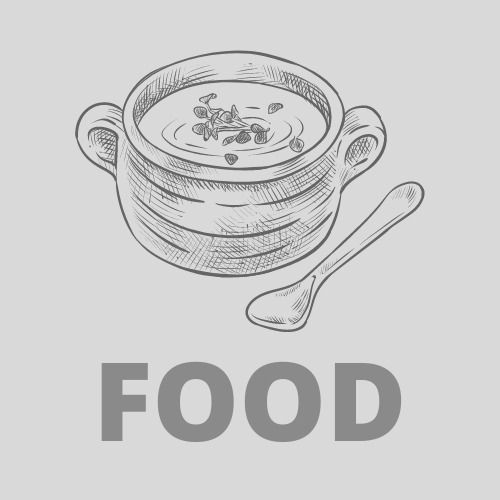
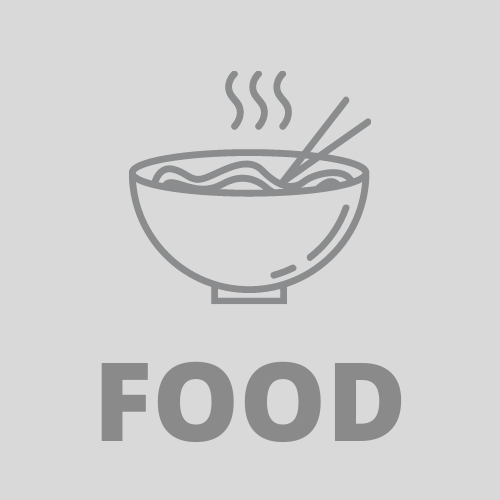
homepage is done!

Changed region(s): [[0.15, 0.09, 0.78, 0.69], [0.78, 0.36, 0.87, 0.45], [0.75, 0.45, 0.78, 0.48]]

diff --git a/client-side/index.html b/client-side/index.html
@@ -55,42 +55,51 @@
         </div>
         <div class="row">
           <div class="col-xs-6 col-md-2 col-md-offset-1">
-            <img class="img-responsive btn" src="assets\Food.png" id=""/>
+            <img class="img-responsive btn" src="assets\FOOD.png" id=""/>
           </div>
           <div class="col-xs-6 col-md-2">
-            <img class="img-responsive" src="assets\Food.png" />
+            <img class="img-responsive btn" src="assets\HOUSING.png" />
           </div>
          
           <div class="col-xs-6 col-md-2">
-            <img class="img-responsive" src="assets\Food.png" />
+            <img class="img-responsive btn" src="assets\Goods.png" />
           </div>
           <div class="col-xs-6 col-md-2">
-            <img class="img-responsive" src="assets\Food.png" />
+            <img class="img-responsive btn" src="assets\TRANSIT.png" />
           </div>
           <div class="col-xs-6 col-md-2">
-            <img class="img-responsive" src="assets\Food.png" />
+            <img class="img-responsive btn" src="assets\HEALTH.png" />
           </div>
          </div>
          <div class="row">
           <div class="col-xs-6 col-md-2 col-md-offset-1">
-            <img class="img-responsive" src="assets\Food.png" />
+            <img class="img-responsive btn" src="assets\MONEY.png" />
           </div>
           <div class="col-xs-6 col-md-2">
-            <img class="img-responsive" src="assets\Food.png" />
+            <img class="img-responsive btn" src="assets\CARE.png" />
           </div>
          
           <div class="col-xs-6 col-md-2">
-            <img class="img-responsive" src="assets\Food.png" />
+            <img class="img-responsive btn" src="assets\EDUCATION.png" />
           </div>
           <div class="col-xs-6 col-md-2">
-            <img class="img-responsive" src="assets\Food.png" />
+            <img class="img-responsive btn" src="assets\WORK.png" />
           </div>
           <div class="col-xs-6 col-md-2">
-            <img class="img-responsive" src="assets\Food.png" />
+            <img class="img-responsive btn" src="assets\LEGAL.png" />
           </div>
          </div>
     </div>
   </div>
+  <footer class="container-fluid text-center">
+    <div class="top-btn">
+      <a href="#myPage" title="To Top">
+        <span class="glyphicon glyphicon-chevron-up"></span>
+      </a>
+    </div>
+      <img src="assets\ohCaresLogo.png" alt="Logo" style="width:80px; height:80px; ">
+      <p>www.ohioanscare.com</p>
+  </footer>
     <script src="./js/index.js"></script>
   </body>
 </html>

diff --git a/client-side/style.css b/client-side/style.css
@@ -2,6 +2,7 @@ body {
     font: 400 15px Lato, sans-serif;
     line-height: 1.8;
     color: #818181;
+    margin: 0%;
   }
   h2 {
     font-size: 24px;
@@ -36,7 +37,7 @@ body {
     margin-top: 50px;
   }
   .form-cont{
-    width: 40%;
+    width: 50%;
     margin-left: auto;
     margin-right: auto;
   }
@@ -148,6 +149,11 @@ body {
     font-size: 20px;
     margin-bottom: 20px;
     color: #ef3a5d;
+  }
+  footer {
+    background-color: #db6077;
+    margin-top: -50px;
+    color: #fff;
   }
   .slideanim {visibility:hidden;}
   .slide {
